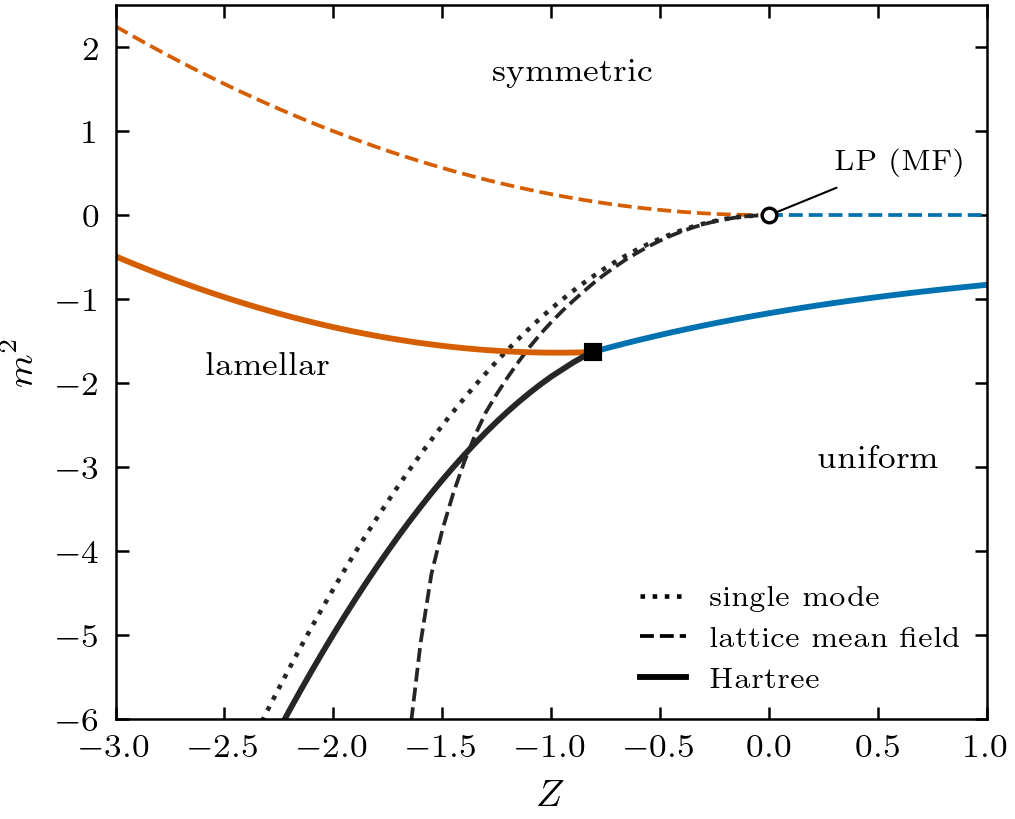
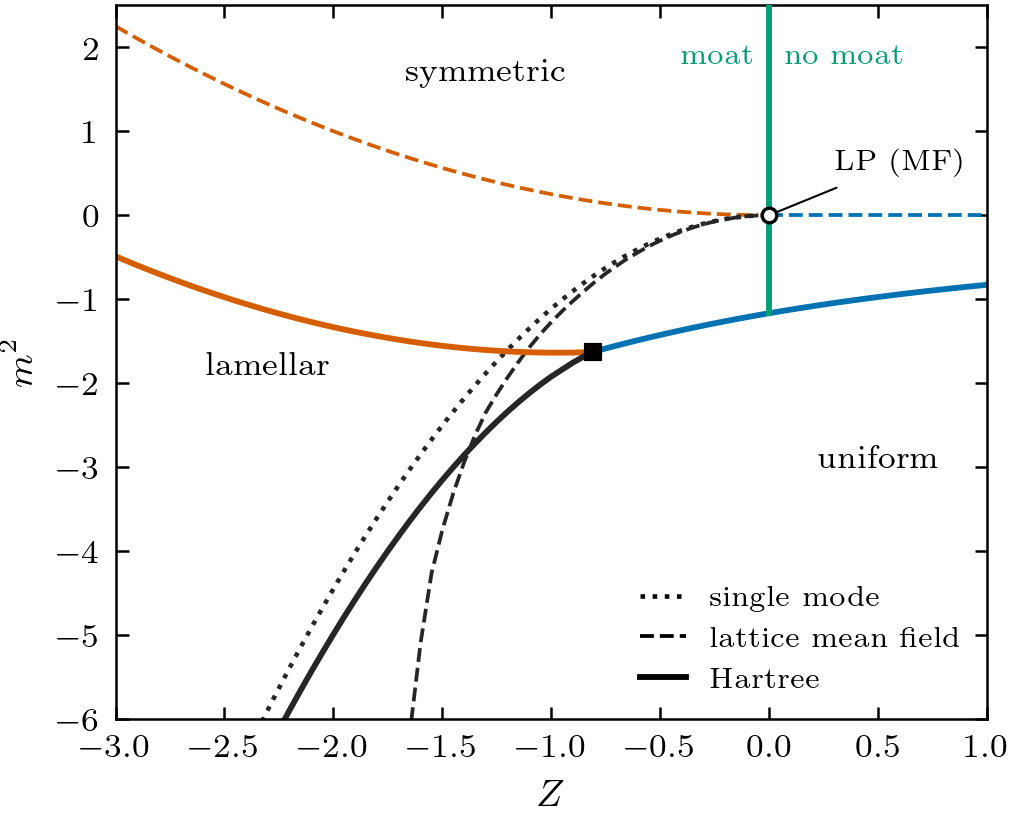
Theory phase diagram: symmetric-moat crossover Z_eff=Z=0 (MF above m2=0, Hartree above m2=-1.167); caption notes the Hartree moat region Z_H<Z<0 that orders uniformly

Changed region(s): [[0.6719, 0.0, 0.8857, 0.2442], [0.397, 0.0611, 0.6414, 0.1221], [0.733, 0.2747, 0.7635, 0.3968]]

diff --git a/scripts/fig_theory.py b/scripts/fig_theory.py
@@ -3,6 +3,9 @@
 
 Inputs:  reports/mean_field/mean_field_lines.csv  (scripts/mf_lattice.py)
          reports/hartree/hartree_lines.csv         (scripts/hartree_lattice.py)
+Symmetric -> moat crossover: both approximations keep the self-energy momentum
+independent, so Z_eff = Z and the crossover is the vertical line Z = 0 above the
+symmetric boundary (m2 > 0 in mean field, m2 > m2_sym_uniform(0) in Hartree).
 Output:  paper/figures/theory_phase_diagram.{pdf,png}
 """
 
@@ -16,7 +19,7 @@ import numpy as np
 
 from paper_style import OKABE_ITO, figsize, save, use_prd
 
-C_UNI, C_MOD, C_UM = OKABE_ITO[0], OKABE_ITO[1], "0.15"
+C_UNI, C_MOD, C_UM, C_MOAT = OKABE_ITO[0], OKABE_ITO[1], "0.15", OKABE_ITO[2]
 
 ROOT = Path(__file__).resolve().parents[1]
 
@@ -84,11 +87,18 @@ def main() -> int:
     ax.plot(zul, mul_, "-", lw=1.4, color=C_UM)
     ax.plot([Zt], [mt], "s", ms=3.5, color="k", zorder=6)
 
+    # ---- symmetric -> moat crossover, Z_eff = Z = 0 in both approximations
+    mH0 = float(np.interp(0.0, zs, mu))
+    ax.plot([0, 0], [mH0, 2.5], "-", lw=1.4, color=C_MOAT, zorder=3)
+    ax.text(-0.07, 1.9, "moat", ha="right", va="center", fontsize=7, color=C_MOAT)
+    ax.text(0.07, 1.9, "no moat", ha="left", va="center", fontsize=7, color=C_MOAT)
+    print(f"Hartree moat line: Z=0, m2 > {mH0:.3f}")
+
     ax.set_xlim(-3.0, 1.0)
     ax.set_ylim(-6.0, 2.5)
     ax.set_xlabel(r"$Z$")
     ax.set_ylabel(r"$m^2$")
-    ax.text(-0.9, 1.6, "symmetric", ha="center", fontsize=8)
+    ax.text(-1.3, 1.6, "symmetric", ha="center", fontsize=8)
     ax.text(0.5, -3.0, "uniform", ha="center", fontsize=8)
     ax.text(-2.3, -1.9, "lamellar", ha="center", fontsize=8)
     ax.annotate("LP (MF)", (0, 0), (0.3, 0.55), fontsize=7,

diff --git a/paper/main.tex b/paper/main.tex
@@ -538,7 +538,12 @@ Eq.~\eqref{eq:commensurate}.
  uniform--lamellar.  The open circle is the mean-field Lifshitz point and the
  square the Hartree junction, Eq.~\eqref{eq:hartree-meet}.  The exact
  lattice mean-field uniform--lamellar line diverges as $Z\to-2^+$
- [Eq.~\eqref{eq:wall}]; the Hartree line uses a single-harmonic condensate.}
+ [Eq.~\eqref{eq:wall}]; the Hartree line uses a single-harmonic condensate.
+ Green: symmetric--moat crossover.  Both approximations keep the self-energy
+ momentum independent, so $Z_\eff=Z$ and the crossover is the line $Z=0$,
+ above $m^2=0$ in mean field and above the Hartree uniform line
+ ($m^2=-1.17$).  In the Hartree approximation the symmetric phase is
+ therefore a moat for $Z_{\rm H}<Z<0$ but still orders uniformly.}
  \label{fig:theory}
 \end{figure}
 
